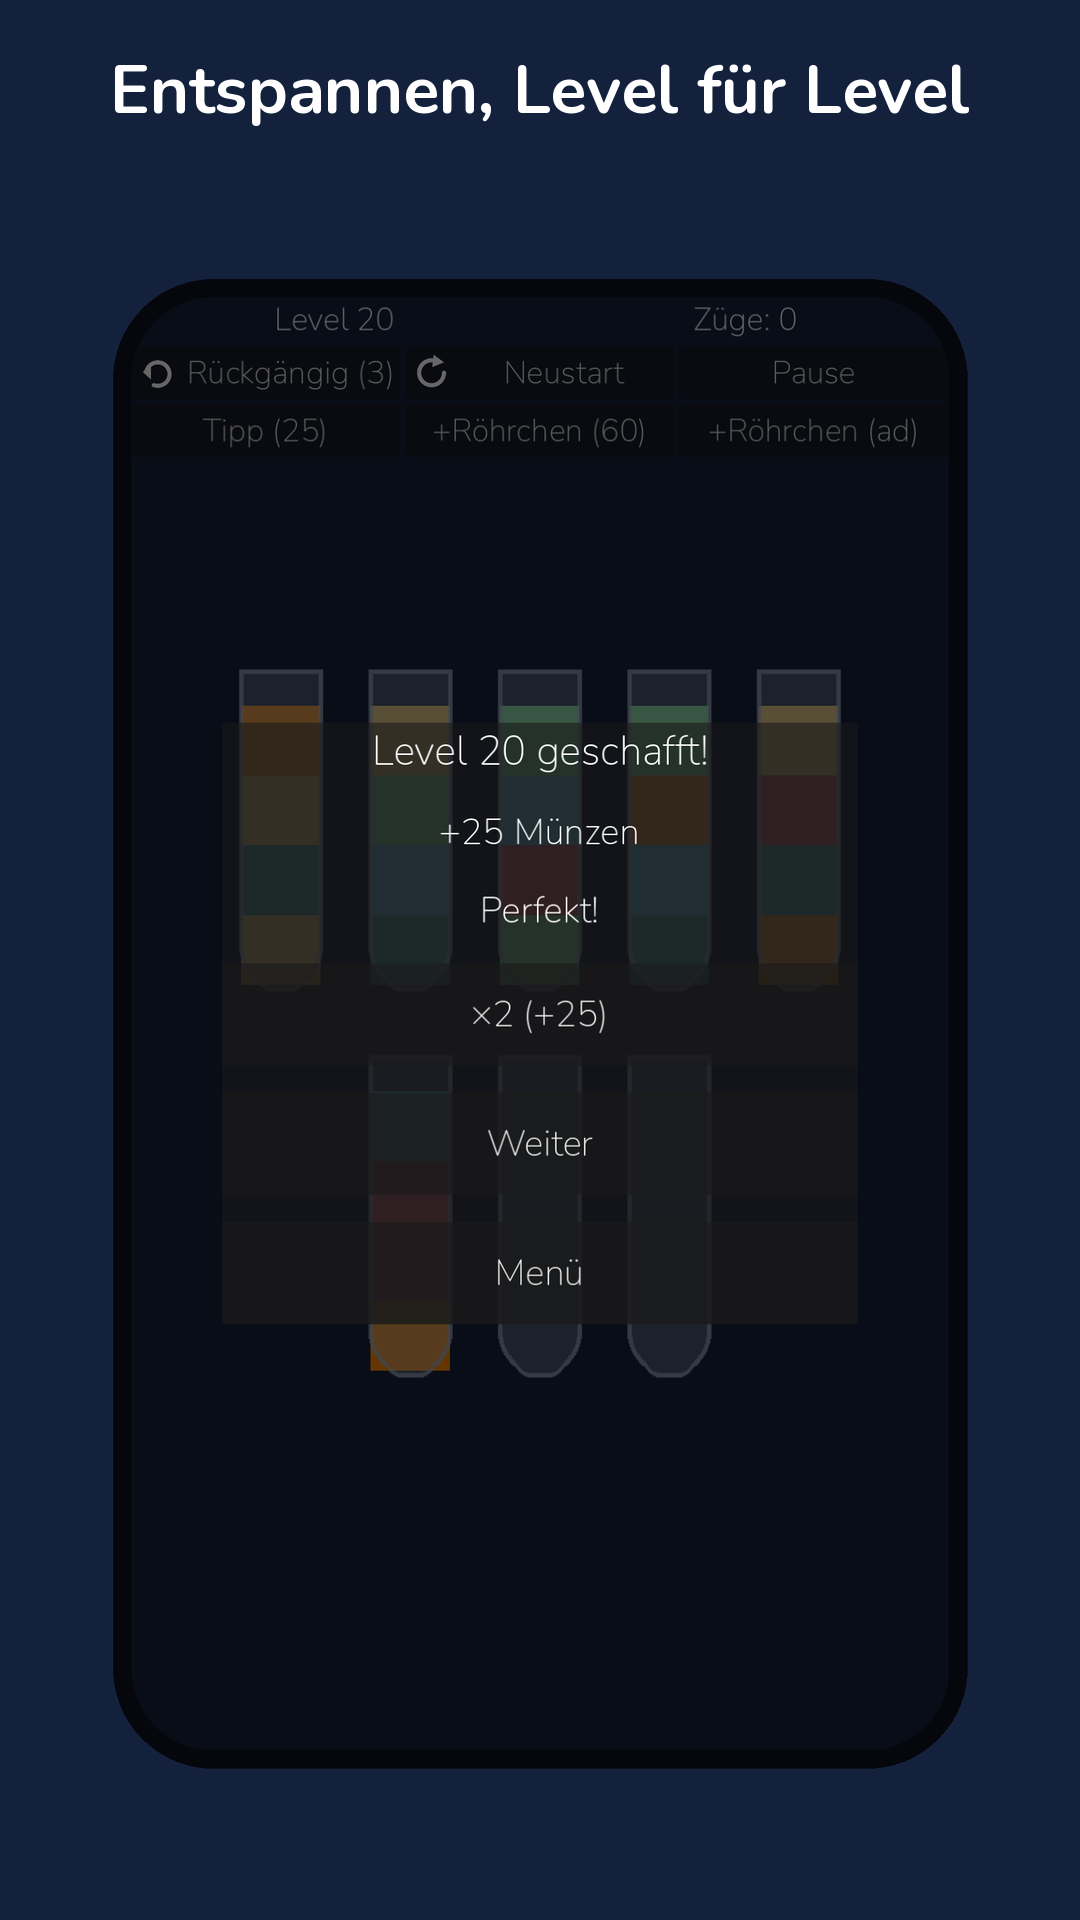
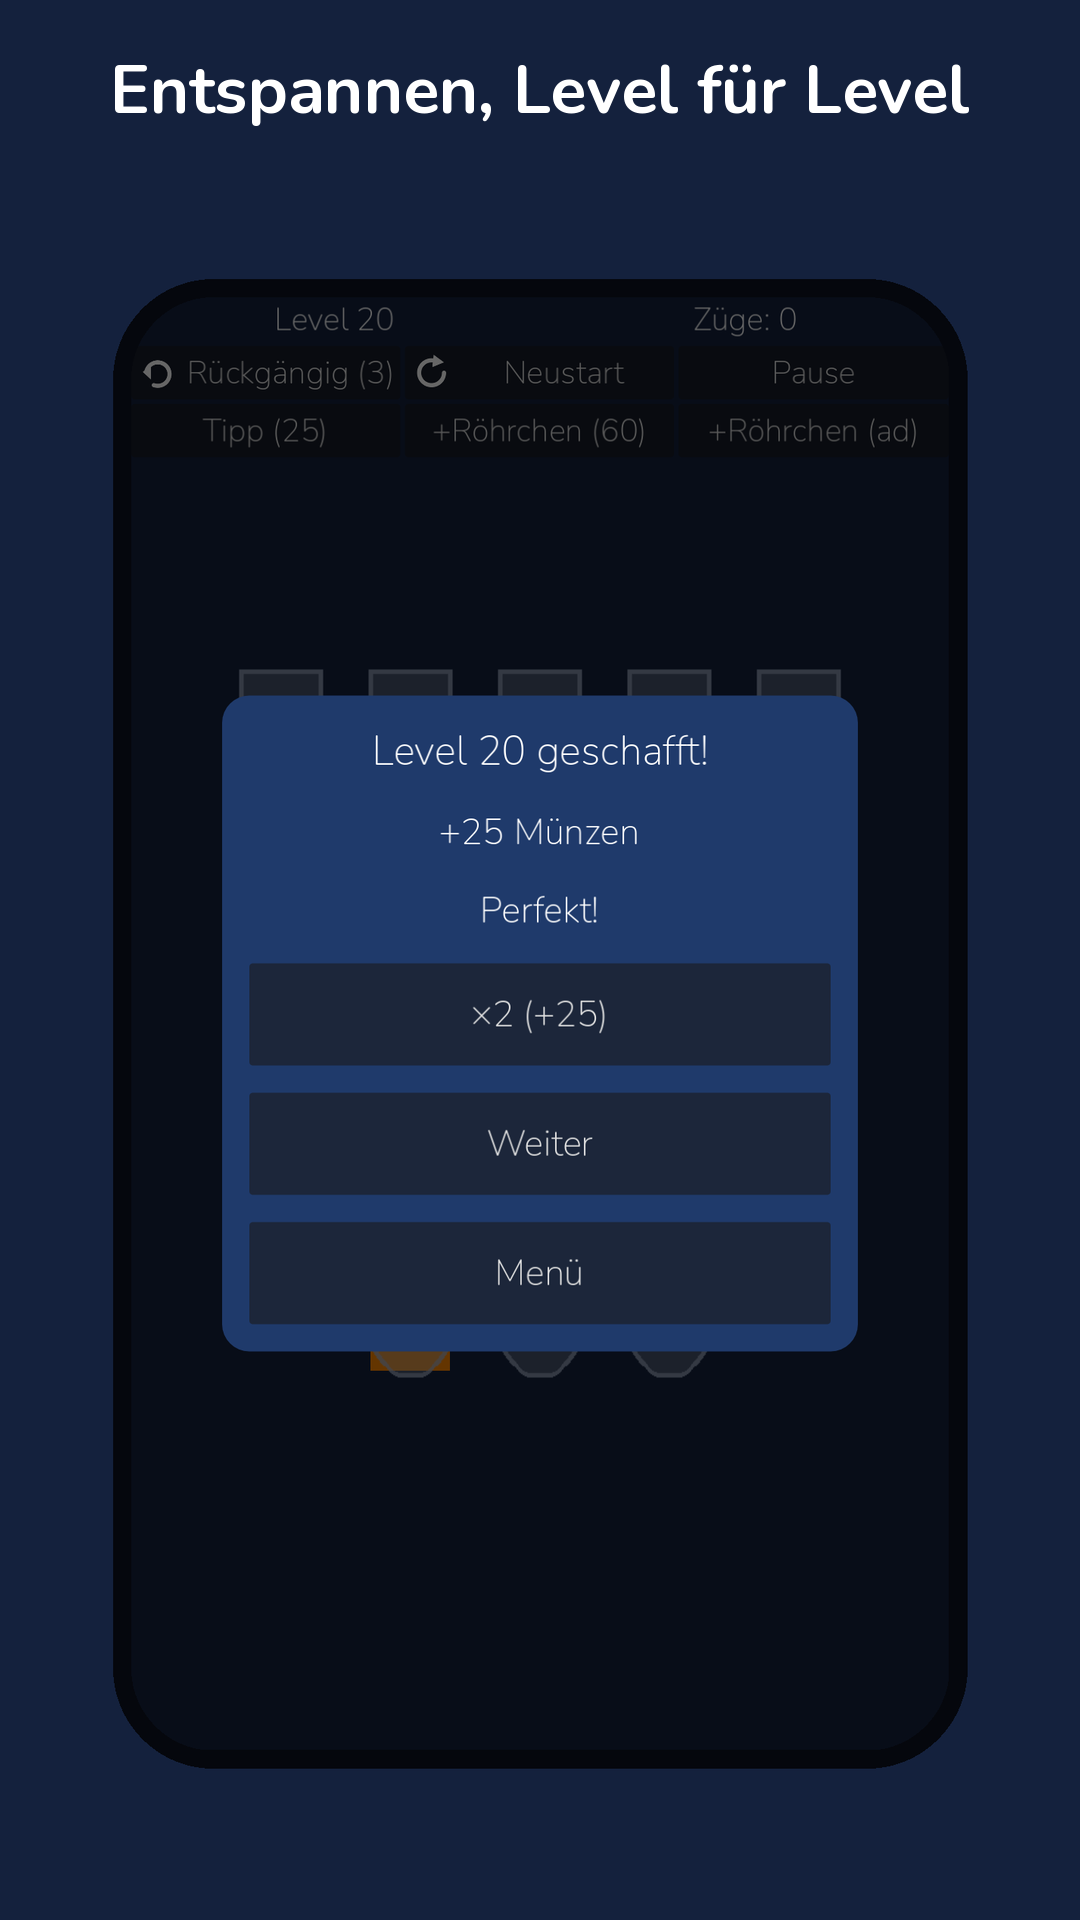
feat(T-060): nieprzezroczyste panele nakładek (StyleBoxFlat w ui_theme) + odświeżone screenshoty (#50)
* chore(T-004): start

Claude-Session: https://claude.ai/code/session_012tdqpRBGeGKdGTuhMKG7uM

* feat(T-004): Gemfile.lock z platformami x86_64-linux i arm64-darwin

Claude-Session: https://claude.ai/code/session_012tdqpRBGeGKdGTuhMKG7uM

* chore(T-004): review → PR #45, LOG

Claude-Session: https://claude.ai/code/session_012tdqpRBGeGKdGTuhMKG7uM

* chore(T-002): start

Claude-Session: https://claude.ai/code/session_012tdqpRBGeGKdGTuhMKG7uM

* feat(T-002): tools/version_code.sh — wspólny monotoniczny version_code w CI

Claude-Session: https://claude.ai/code/session_012tdqpRBGeGKdGTuhMKG7uM

* fix(T-002): workflowy wracają do stanu z main — podpięcie skryptu w osobnym zadaniu (T-002b)

Sesja scheduled (auto-mode) nie ma uprawnień do edycji .github/workflows/**; PR zawiera tylko tools/version_code.sh + testy.

Claude-Session: https://claude.ai/code/session_012tdqpRBGeGKdGTuhMKG7uM

* chore(T-002): review, T-002b/T-005/T-053/T-055 blocked (uprawnienia do workflowow)

Claude-Session: https://claude.ai/code/session_012tdqpRBGeGKdGTuhMKG7uM

* chore(T-002): PR #46 w BACKLOG, LOG

Claude-Session: https://claude.ai/code/session_012tdqpRBGeGKdGTuhMKG7uM

* chore(T-040): start

* feat(T-040): font Nunito (OFL) jako domyślny font UI przez Theme + etykieta języka w Settings

Claude-Session: https://claude.ai/code/session_012tdqpRBGeGKdGTuhMKG7uM

* chore(T-003): start

Claude-Session: https://claude.ai/code/session_012tdqpRBGeGKdGTuhMKG7uM
[…]

Changed region(s): [[0.1833, 0.3438, 0.7944, 0.7188]]

diff --git a/BACKLOG.md b/BACKLOG.md
@@ -41,11 +41,11 @@ Pętla bierze pierwsze `todo` z najwyższej sekcji. Zadania P0 muszą być `done
   KA: parser argumentów jako czysta funkcja z testem gdUnit4 (poprawne argumenty, brak `--out`, nieznana scena → kod wyjścia ≠ 0); scena ładuje się ze stanem z fixture (in-memory `GameState`, bez zapisu do save'a gracza), po 2 klatkach zapisuje PNG i kończy exit 0; zły argument → exit ≠ 0. `make screenshots` lokalnie pod `xvfb-run` daje 1 PNG na każdą linię `tools/screens.txt` (lista plików w opisie PR). `make check` zielone. ≤ ~150 linii.
   Skill: `godot-dev`
 
-- [ ] T-050 `review` Screenshoty sklepowe: 5 kadrów z `docs/ASO.md` × EN/PL/DE do `fastlane/metadata/android/<locale>/images/phoneScreenshots` (zależy od T-003) → PR #__PR__
+- [ ] T-050 `review` Screenshoty sklepowe: 5 kadrów z `docs/ASO.md` × EN/PL/DE do `fastlane/metadata/android/<locale>/images/phoneScreenshots` (zależy od T-003) → PR #49
   KA: fixtures dla 5 kadrów z ASO (Level ~20 / 6 kolorów w trakcie gry, LevelComplete z „idealnie”, Home z kartą Poziomu dnia, DailyRewardPopup dzień 5 streaka, Themes z 4 motywami); `gen_screenshots.sh` iteruje po `en-US`/`pl-PL`/`de-DE` z `--lang`, captiony z ASO przetłumaczone (PL/DE natywnie) w `frame_screenshots.py`. Test w `tools/test_tools.py`: 15 plików PNG, każdy 1080×1920 (proporcja ≤ 2:1, wymóg Play). Wersja iOS (rozmiar 6,9") — tylko jeśli wymagany rozmiar zweryfikowany w dokumentacji ASC, inaczej wpis do Inbox. Zadanie wprost dotyczy `fastlane/metadata`. ≤ ~200 linii (bez PNG).
   Skill: `aso`
 
-- [ ] T-060 `todo` UI: nieprzezroczyste tło paneli nakładkowych (LevelComplete, DailyRewardPopup, StuckPanel, karta Poziomu dnia na Home) + regeneracja screenshotów sklepowych (zależy od T-050)
+- [ ] T-060 `in_progress` UI: nieprzezroczyste tło paneli nakładkowych (LevelComplete, DailyRewardPopup, StuckPanel, karta Poziomu dnia na Home) + regeneracja screenshotów sklepowych (zależy od T-050)
   KA: `PanelContainer` w `level_complete.tscn`, `stuck_panel.tscn`, `daily_reward_popup.tscn` i panele budowane w kodzie (`home.gd`) dostają `StyleBoxFlat` (tło `background_alt` z `tools/palette.json` alfa 1.0, promień rogów, margines) przez `ui_theme.tres` (styl `PanelContainer/styles/panel`) albo `theme_override_styles/panel` — spód ekranu nie prześwituje przez tekst (dziś domyślny panel Godota ma alfa ~0,6 → kadry 02/04 nieczytelne). Pod popupem przyciemnienie `ColorRect` (alfa z klucza w `GameConfig` lub stała w scenie). Test gdUnit4: `LevelComplete`/`DailyRewardPopup` po `show_*` mają stylebox panelu z `bg_color.a == 1.0`. `make screenshots` → 15 PNG odświeżone i zacommitowane; kadry 02 i 04 obejrzane (tekst czytelny). `make check` zielone. ≤ ~120 linii + PNG.
   Skill: `godot-dev`
 

diff --git a/docs/LOG.md b/docs/LOG.md
@@ -85,3 +85,4 @@ Godot 4.4.1 → 4.7.2, gdUnit4 → v7, target API 36 (ADR-008). make check zielo
 - Lekcja: zadania „CI:” dotykające `.github/workflows/` nie są wykonalne w sesji scheduled — przy refillu backlogu nie planować ich jako `todo` dla pętli.
 - P1: T-040 font Nunito (OFL, variable) przez Theme na korzeniu Main + etykieta języka w Settings + test pokrycia glifów dla całego strings.csv (bez ✓ w daily_done — brak glifu); 236 testów, QA PASS (playtest 200/200 solver, 0 softlocków) → PR #47 (auto-merge, depends on #46 — zmergowany).
 - P1: T-003 tryb --screenshot (ScreenshotArgs czysty parser, ScreenshotFixtures default/midgame, SaveSystem.read_only, 9/9 PNG pod xvfb w ~15 s, gen_screenshots.sh egzekwuje liczbę PNG); 248 testów, playtest 200/200 → PR #48 (auto-merge). Inbox: T-056–T-059.
+- P1: T-050 screenshoty sklepowe 5×EN/PL/DE (fixtures ASO, screens_store.txt, captions.json, frame 1080×1920 z captionem Nunito, make screenshots --store / screenshots-smoke), 15 PNG 1,6 MB; 250 testów + 20 tools → PR #49 (auto-merge). Kadry 02/04 nieczytelne — panele nakładek prześwitują (domyślny panel Godota alfa 0,6) → T-060.
